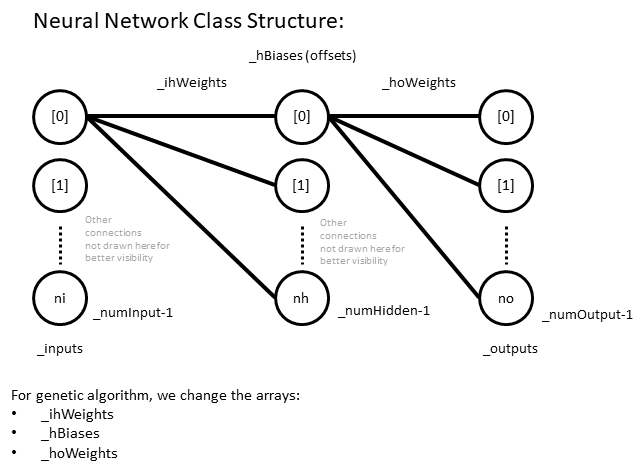
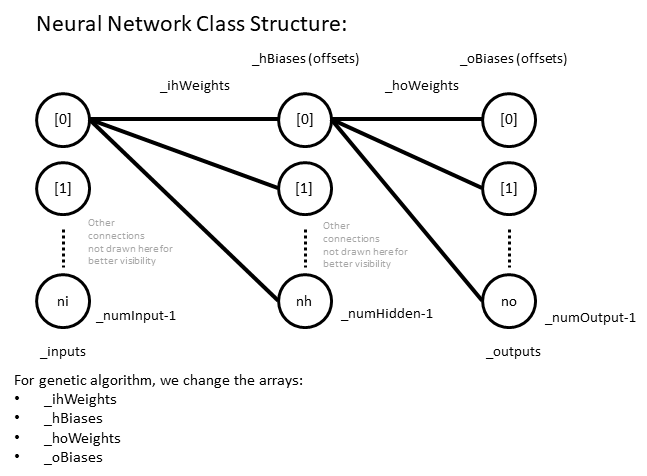
Forgot to add output biases. Added methods to save neural nets as files. Fixed bug in Mutate().

diff --git a/AccessBattleAI/Models/NeuralNetwork.cs b/AccessBattleAI/Models/NeuralNetwork.cs
@@ -22,16 +22,21 @@ namespace AccessBattleAI.Models
         double[] _inputs;
         public double[] Inputs => _inputs;
 
-        double[][] _ihWeights; // input-hidden
-        double[] _hBiases;
-        double[] _hOutputs;
+        double[][] _ihWeights; // Hidden node input weights
+        double[] _hBiases; // Hidden node offsets
+        double[][] _hoWeights; // Hidden node output weights
 
-        double[][] _hoWeights; // hidden-output
-        double[] _oBiases;
+        double[] _hOutputs;              
+        double[] _oBiases; // Output node offsets
 
         double[] _outputs;
         public double[] Outputs => _outputs;
 
+        private NeuralNetwork()
+        {
+            _rnd = new Random();
+        }
+        
         public NeuralNetwork(int numInput, int numHidden, int numOutput, int? seed = null)
         {
             if (seed != null)
@@ -78,13 +83,18 @@ namespace AccessBattleAI.Models
             {
                 _hBiases[nh] += RandomBetween(delta, -delta);
             }
-            for (int nh = 0; nh < _numInput; ++nh)
+            for (int no = 0; no < _numOutput; ++no)
+            {
+                _oBiases[no] += RandomBetween(delta, -delta);
+            }
+            for (int nh = 0; nh < _numHidden; ++nh)
             {
                 for (int no = 0; no < _numOutput; ++no)
                 {
                     _hoWeights[nh][no] += RandomBetween(delta, -delta);
                 }
             }
+
         }
 
         double RandomBetween(double min, double max) => _rnd.NextDouble() * (max - min) + min;
@@ -139,6 +149,171 @@ namespace AccessBattleAI.Models
                 result[i] = Math.Exp(oSums[i] - max) / scale;
 
             return result; // now scaled so that xi sum to 1.0
+        }
+
+        public bool SaveAsFile(string filename)
+        {
+            try
+            {
+                using (System.IO.StreamWriter file = new System.IO.StreamWriter(filename))
+                {
+                    var info = System.Globalization.CultureInfo.InvariantCulture;
+
+                    file.WriteLine("# Neural Network Definition");
+                    file.WriteLine("# This file was automatically generated. Do not change!");
+                    file.WriteLine();
+                    file.WriteLine("# Number of nodes:");
+                    file.WriteLine("Inputs: {0}", _numInput);
+                    file.WriteLine("Hidden: {0}", _numHidden);
+                    file.WriteLine("Outputs: {0}", _numOutput);
+                    file.WriteLine();
+                    file.WriteLine("# Biases:");
+                    file.Write("BHidden: ");
+                    for (int i = 0; i < _hBiases.Length; ++i)
+                    {
+                        if (i != 0) file.Write(";");
+                        file.Write(_hBiases[i].ToString(info));
+                    }
+                    file.WriteLine();
+                    file.Write("BOutput: ");
+                    for (int i = 0; i < _oBiases.Length; ++i)
+                    {
+                        if (i != 0) file.Write(";");
+                        file.Write(_oBiases[i].ToString(info));
+                    }
+                    file.WriteLine();
+                    file.WriteLine();
+                    file.WriteLine("# Weights:");
+                    file.Write("WHidden: ");
+                    for (int i = 0; i < _ihWeights.Length; ++i)
+                    {
+                        for (int j = 0; j < _ihWeights[0].Length; ++j)
+                        {
+                            if (i != 0 || j != 0) file.Write(";");
+                            file.Write(_ihWeights[i][j].ToString(info));
+                        }
+                    }
+                    file.WriteLine();
+                    file.Write("WOutput: ");
+                    for (int i = 0; i < _hoWeights.Length; ++i)
+                    {
+                        for (int j = 0; j < _hoWeights[0].Length; ++j)
+                        {
+                            if (i != 0 || j != 0) file.Write(";");
+                            file.Write(_hoWeights[i][j].ToString(info));
+                        }
+                    }
+                    file.WriteLine();
+
+                    // The seed is not saved.
+
+                    file.Flush();
+                    file.Close();
+                }
+            }
+            catch (Exception e)
+            {
+                AccessBattle.Log.WriteLine(AccessBattle.LogPriority.Error, "Cannot save neural network. " + e.Message);
+                return false;
+            }
+            return true;            
+        }
+
+        public static NeuralNetwork ReadFromFile(string filename)
+        {
+            var network = new NeuralNetwork();
+            try
+            {
+                using (System.IO.StreamReader file = new System.IO.StreamReader(filename))
+                {
+                    var info = System.Globalization.CultureInfo.InvariantCulture;
+                    while (!file.EndOfStream)
+                    {
+                        var line = file.ReadLine().Trim();
+                        if (line.StartsWith("#") || string.IsNullOrEmpty(line)) continue;
+
+                        if (line.StartsWith("Inputs:"))
+                        {
+                            network._numInput = Convert.ToInt32(line.Substring("Inputs:".Length));
+                        }
+                        else if (line.StartsWith("Hidden:"))
+                        {
+                            network._numHidden = Convert.ToInt32(line.Substring("Hidden:".Length));
+                        }
+                        else if (line.StartsWith("Outputs:"))
+                        {
+                            network._numOutput = Convert.ToInt32(line.Substring("Outputs:".Length));
+                        }
+                        else if (line.StartsWith("BHidden:"))
+                        {
+                            int i = 0;
+                            network._hBiases = new double[network._numHidden];
+                            foreach (var str in line.Substring("BHidden:".Length).Split(';'))
+                            {
+                                network._hBiases[i++] = Convert.ToDouble(str, info);
+                            }
+                        }
+                        else if (line.StartsWith("BOutput:"))
+                        {
+                            int i = 0;
+                            network._oBiases = new double[network._numOutput];
+                            foreach (var str in line.Substring("BOutput:".Length).Split(';'))
+                            {
+                                network._oBiases[i++] = Convert.ToDouble(str, info);
+                            }
+                        }
+                        else if (line.StartsWith("WHidden:"))
+                        {
+                            network._ihWeights = MakeMatrix(network._numInput, network._numHidden);
+                            int ni = 0;
+                            int nh = 0;
+
+                            foreach (var str in line.Substring("BOutput:".Length).Split(';'))
+                            {
+                                network._ihWeights[ni][nh] = Convert.ToDouble(str, info);
+                                if (++nh >= network._numHidden)
+                                {
+                                    nh = 0;
+                                    ++ni;
+                                }
+                            }                           
+                        }
+                        else if (line.StartsWith("WOutput:"))
+                        {
+                            network._hoWeights = MakeMatrix(network._numHidden, network._numOutput);
+
+                            int nh = 0;
+                            int no = 0;
+
+                            foreach (var str in line.Substring("BOutput:".Length).Split(';'))
+                            {
+                                network._hoWeights[nh][no] = Convert.ToDouble(str, info);
+                                if (++no >= network._numOutput)
+                                {
+                                    no = 0;
+                                    ++nh;
+                                }
+                            }
+                        }
+
+                    }
+                    file.Close();
+                }
+
+                // We do not do any further validations here. Software will crash soon enough if something was wrong.
+
+                // Init missing fields
+                network._inputs = new double[network._numInput];
+                network._outputs = new double[network._numOutput];
+                network._hOutputs = new double[network._numHidden];
+
+            }
+            catch (Exception e)
+            {
+                AccessBattle.Log.WriteLine(AccessBattle.LogPriority.Error, "Cannot read neural network. " + e.Message);
+                return null;
+            }
+            return network;
         }
     }
 }

diff --git a/AccessBattleTests/NeuralNetworkTest.cs b/AccessBattleTests/NeuralNetworkTest.cs
@@ -30,7 +30,7 @@ namespace AccessBattleTests
         [TestMethod]
         public void CheckOutputs()
         {
-            var net = new NeuralNetwork(3,4,2,0);
+            var net = new NeuralNetwork(3, 4, 2, 0);
 
             net.ComputeOutputs();
             PrintNet(net); // Should be 0.5,0.5 at the beginning
@@ -40,7 +40,7 @@ namespace AccessBattleTests
                 net.Mutate();
                 net.ComputeOutputs();
                 PrintNet(net);
-            }            
+            }
         }
 
         // Output can be found in the results of MS Test Explorer when selecting the result.
@@ -48,6 +48,19 @@ namespace AccessBattleTests
         void PrintNet(NeuralNetwork net)
         {
             Console.WriteLine("Neural Network Output: " + net.Outputs[0].ToString(_culture) + ", " + net.Outputs[1].ToString(_culture));
+        }
+
+        [TestMethod]
+        public void SaveFileTest()
+        {
+            var net = new NeuralNetwork(3, 2, 2, 1);
+            net.Mutate();
+
+            Assert.IsTrue(net.SaveAsFile("tmpNet.txt"));
+            var net2 = NeuralNetwork.ReadFromFile("tmpNet.txt");
+            System.IO.File.Delete("tmpNet.txt");
+
+            Assert.IsNotNull(net2);
         }
     }
 }
